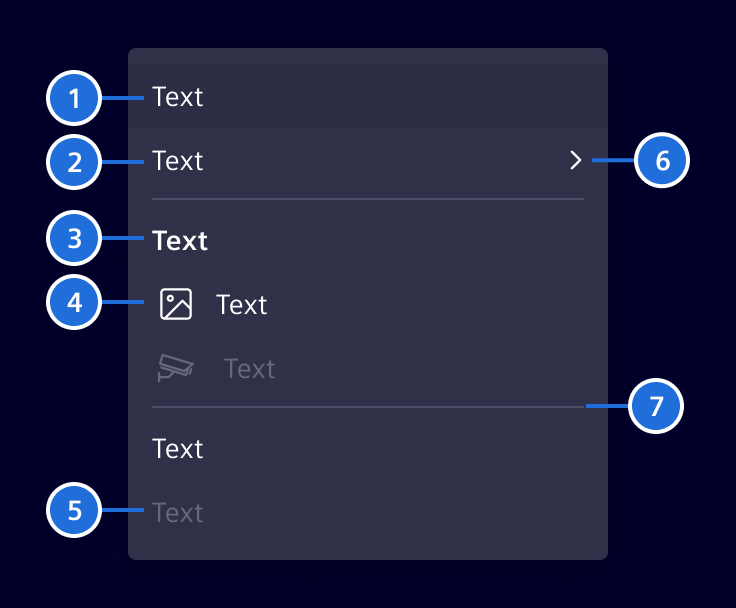
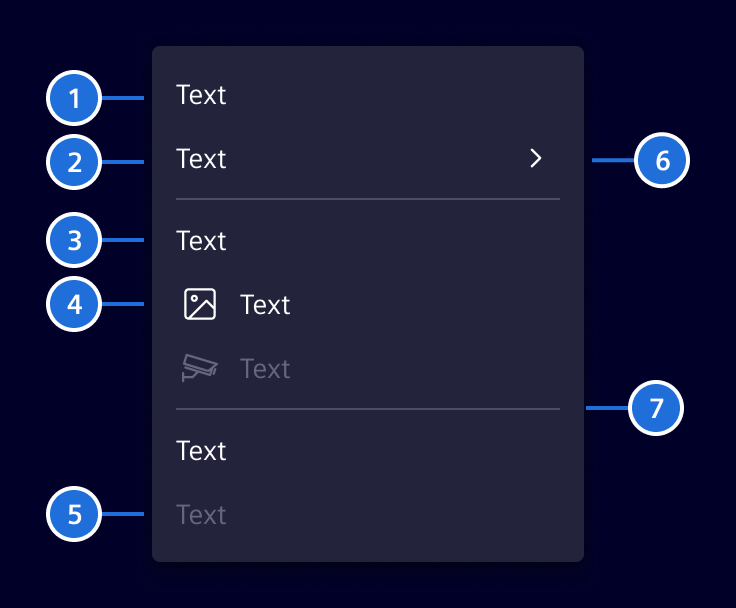
docs(menu): update images and copy text to latest guideline

Changed region(s): [[0.0625, 0.0625, 0.9375, 0.9375], [0.7188, 0.25, 0.75, 0.2812]]

diff --git a/docs/components/buttons-menus/menu.md b/docs/components/buttons-menus/menu.md
@@ -3,9 +3,9 @@
 Contextual menus are lists of commands that are based on the context of a selection, mouse hover or keyboard focus.
 They are one of the most effective and highly used command surfaces, and can be used in a variety of places.
 
-![Menu](images/menu.png)
-
 ## Usage ---
+
+![Menu](images/menu.png)
 
 ### When to use
 
@@ -14,10 +14,10 @@ They are one of the most effective and highly used command surfaces, and can be 
 
 ### When a menu might not help
 
-- If there is one action only use [Button](buttons.md) or [Link](links.md) instead
+- If there is one action only use [button](buttons.md) or [link](links.md) instead
 - If there is no interaction element to open the menu
 
-### Best practices for menu
+### Best practices
 
 - Understand the context first in order to determine if a menu is
   indeed the best possible solution
@@ -37,13 +37,13 @@ They are one of the most effective and highly used command surfaces, and can be 
 
 ### Elements
 
-![Menu - elements](images/menu-elements.png)
+![Elements](images/menu-elements.png)
 
 > (1) Hover state, (2) Entry with submenu, (3) Header, (4) Entry menu with icon, (5) Disabled state, (6) Indication for submenu, (7) Divider
 
 ### Alternatives
 
-![Menu - alternatives](images/menu-alternatives.png)
+![Alternatives](images/menu-alternatives.png)
 
 - Single choice should be used if the user has to select one of the options only. Make sure, that the options are grouped correctly.
 - Multi choice can be used, if the user can enable or disable some functionality over the menu.
